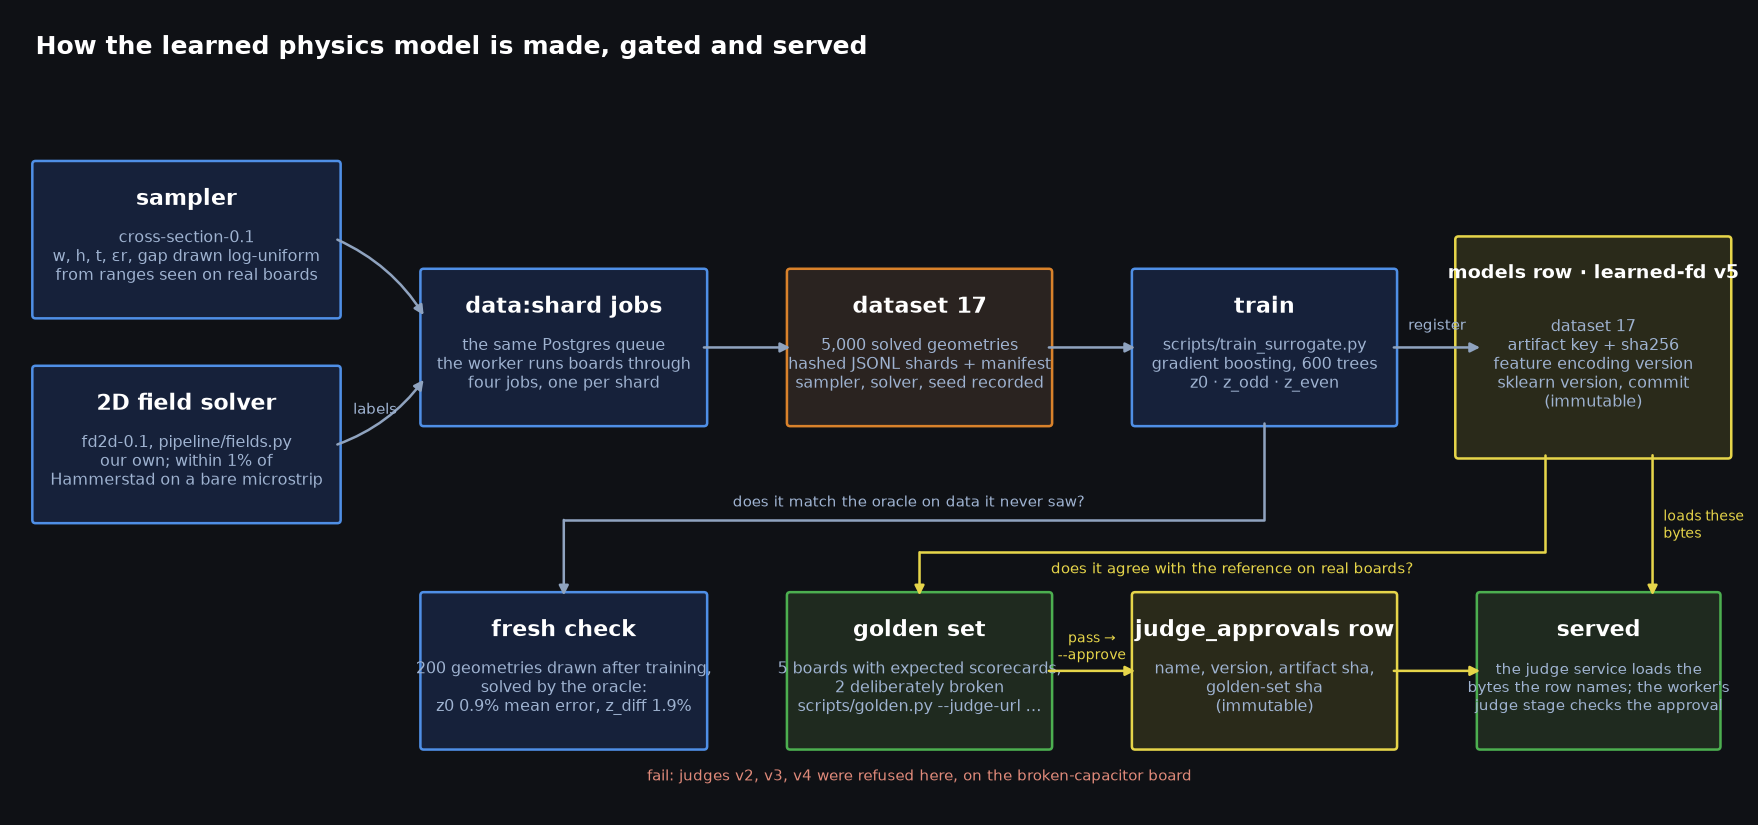
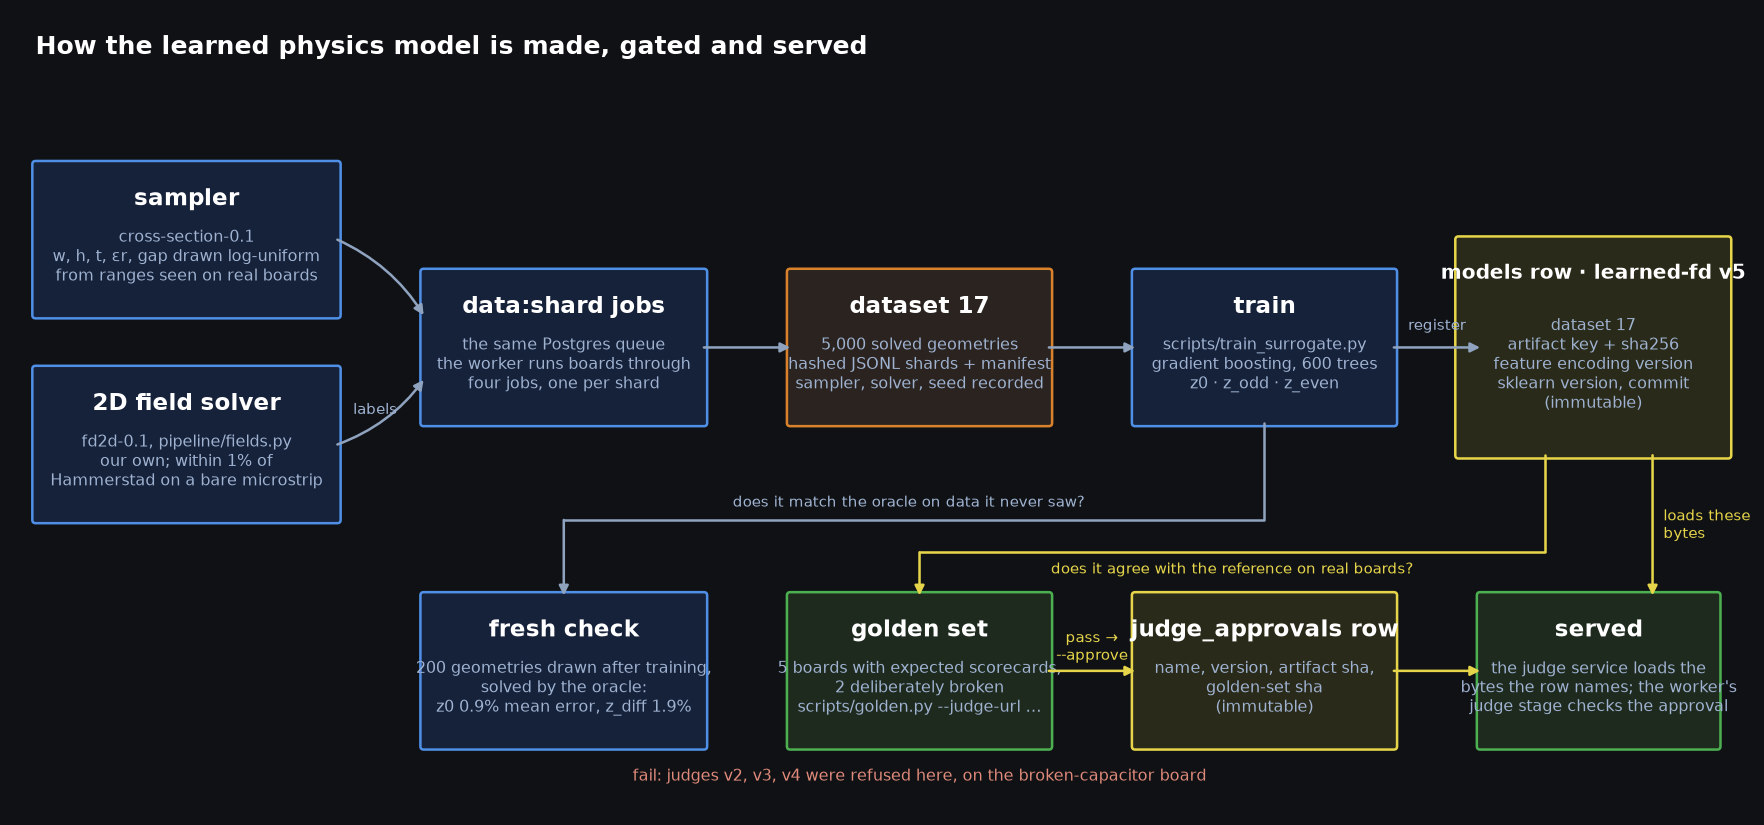
README: mermaid as before, detailed diagram portrait with cylinders
Claude-Session: https://claude.ai/code/session_01QX7QVxu7HEts5nS26wqjjR

diff --git a/docs/media/diagrams.py b/docs/media/diagrams.py
@@ -9,10 +9,10 @@ import matplotlib
 
 matplotlib.use("Agg")
 import matplotlib.pyplot as plt  # noqa: E402
-from matplotlib.patches import FancyBboxPatch  # noqa: E402
+from matplotlib.patches import Ellipse, FancyBboxPatch, Rectangle  # noqa: E402
 
 OUT = Path(__file__).parent
-F = 1.25  # type scale: GitHub shows the image at ~900 px wide, so text has to be big
+F = 1.3  # type scale: GitHub shows the image at ~900 px wide, so text has to be big
 BG, BLUE, BLUE_FC, ORANGE, ORANGE_FC = "#0f1115", "#4f8fe6", "#16213a", "#d9822b", "#2a2320"
 GREEN, GREEN_FC, GOLD, GOLD_FC, GREY, TXT, SUB = (
     "#4caf50", "#1f2a1f", "#e6d54a", "#2a2a1a", "#8fa3bf", "#ffffff", "#9fb3d1",
@@ -29,6 +29,18 @@ def box(ax, x1, y1, x2, y2, title, body="", fc=BLUE_FC, ec=BLUE, ts=9, bs=7.2, l
         ax.text(cx, y1 + (y2 - y1 - 3.2) / 2, body, color=SUB, ha="center", va="center", fontsize=bs * F)
     else:
         ax.text(cx, (y1 + y2) / 2, title, color=TXT, ha="center", va="center", fontsize=ts * F, weight="bold")
+
+
+def cyl(ax, x1, y1, x2, y2, title, body, fc, ec, ts=8.5, bs=6.6, e=3.2):
+    """A database cylinder: body, bottom rim, top ellipse."""
+    w, cx = x2 - x1, (x1 + x2) / 2
+    ax.add_patch(Ellipse((cx, y1 + e / 2), w, e, fc=fc, ec=ec, lw=1.3))
+    ax.add_patch(Rectangle((x1, y1 + e / 2), w, y2 - y1 - e, fc=fc, ec="none"))
+    ax.plot([x1, x1], [y1 + e / 2, y2 - e / 2], color=ec, lw=1.3)
+    ax.plot([x2, x2], [y1 + e / 2, y2 - e / 2], color=ec, lw=1.3)
+    ax.add_patch(Ellipse((cx, y2 - e / 2), w, e, fc=fc, ec=ec, lw=1.3))
+    ax.text(cx, y2 - e - 1.2, title, color=TXT, ha="center", va="top", fontsize=ts * F, weight="bold")
+    ax.text(cx, y1 + (y2 - y1 - e - 3) / 2 + 0.5, body, color=SUB, ha="center", va="center", fontsize=bs * F)
 
 
 def frame(ax, x1, y1, x2, y2, title, ec, fc="none", ts=10):
@@ -64,66 +76,66 @@ def canvas(w, h, xmax, ymax):
 
 
 def system() -> None:
-    fig, ax = canvas(16, 9.6, 160, 96)
-    ax.text(2, 94, "netlist-pipeline: one run through the system", color=TXT, fontsize=13, weight="bold", va="top")
+    # portrait: GitHub shows a README image at ~900 px wide, so a tall layout reads larger
+    fig, ax = canvas(10, 15, 100, 150)
+    ax.text(2, 148.5, "one run through the system", color=TXT, fontsize=13, weight="bold", va="top")
 
-    # row A: client, api, stores
-    box(ax, 3, 78, 24, 90, "client", "uploads a schematic\n(or a finished board),\npolls, fetches artifacts", fc="#2b2b2b", ec="#cfd8dc", bs=6.6)
-    box(ax, 30, 78, 66, 90, "api  (FastAPI)", "POST /designs → store, insert run + first job\nGET /runs/{id} → the rows\nGET …/artifacts/{name} → presigned redirect", bs=5.8)
-    box(ax, 76, 78, 106, 90, "Postgres", "designs · runs · jobs · stages\ncandidates · verifications · artifacts\nmodels · judge_approvals", fc=ORANGE_FC, ec=ORANGE, bs=6.2)
-    box(ax, 118, 78, 154, 90, "S3  (MinIO locally)", "designs/<sha>/…\nruns/<id>/…\nmodels/judge/<version>-<sha>.joblib", fc=ORANGE_FC, ec=ORANGE, bs=6.2)
-    arrow(ax, (24, 84), (30, 84))
-    arrow(ax, (66, 84), (76, 84))
-    label(ax, 71, 86.2, "run + first job", size=5.4)
-    arrow(ax, (47, 78), (136, 78), rad=0.22)
-    label(ax, 91, 71.5, "upload bytes", size=6.5)
+    box(ax, 2, 130, 24, 142, "client", "uploads a schematic\n(or a finished board),\npolls, fetches artifacts", fc="#2b2b2b", ec="#cfd8dc", ts=8.5, bs=6.6, pad=1.2)
+    box(ax, 30, 130, 72, 142, "api  (FastAPI)", "POST /designs → store, insert run + first job\nGET /runs/{id} → the rows\nGET …/artifacts/{name} → presigned redirect", ts=8.5, bs=6.4)
+    arrow(ax, (24, 136), (30, 136))
+    cyl(ax, 2, 106, 46, 124, "Postgres", "designs · runs · jobs · stages\ncandidates · verifications · artifacts\nmodels · judge_approvals", fc=ORANGE_FC, ec=ORANGE)
+    cyl(ax, 52, 106, 96, 124, "S3  (MinIO locally)", "designs/<sha>/…\nruns/<id>/…\nmodels/judge/<version>-<sha>.joblib", fc=ORANGE_FC, ec=ORANGE)
+    arrow(ax, (40, 130), (30, 124), rad=0.1)
+    label(ax, 27.5, 126.5, "run + first job", size=5.8, ha="right")
+    arrow(ax, (62, 130), (72, 124), rad=-0.1)
+    label(ax, 74, 126.5, "upload bytes", size=5.8, ha="left")
 
-    # row B: worker
-    frame(ax, 3, 38, 157, 66, "worker  — one job at a time, each in a child interpreter", BLUE, fc="#111827", ts=9)
-    box(ax, 6, 44, 30, 58, "job loop", "claim a queued job\n(SKIP LOCKED)\nrun its stage\nenqueue the next stage")
-    frame(ax, 33, 41, 154, 61, "the eight stages: one jobs row and one stages row each, chained by sha256", "#2f4f6f", fc="#0f1a2e", ts=7.5)
+    frame(ax, 2, 50, 96, 100, "worker  — one job at a time, each in a child interpreter", BLUE, fc="#111827", ts=9)
+    box(ax, 5, 74, 30, 92, "job loop", "claim a queued job\n(SKIP LOCKED)\nrun its stage in a\nchild interpreter\nenqueue the next stage", ts=8.5, bs=6.4)
+    frame(ax, 34, 53, 94, 96, "the eight stages: one jobs row and\none stages row each, chained by sha256", "#2f4f6f", fc="#0f1a2e", ts=7.6)
     stages = [
         ("1 extract_netlist", "kicad-cli"), ("2 constraints", "classes + patterns"),
-        ("3  build_board", "pcbnew"), ("4  place", "simulated annealing"), ("5  route", "Freerouting"),
-        ("6  judge", "the model slot"), ("7  verify", "DRC + netlist parity"), ("8 export", "gerbers, drill, png"),
+        ("3 build_board", "pcbnew"), ("4 place", "annealing"), ("5 route", "Freerouting"),
+        ("6 judge", "the model slot"), ("7 verify", "DRC + netlist parity"), ("8 export", "gerbers, drill, png"),
     ]  # fmt: skip
-    xs = []
+    pos = []
     for i, (t, b) in enumerate(stages):
-        x1 = 35 + i * 14.75
-        xs.append((x1, x1 + 13.25))
+        row, col = divmod(i, 4)
+        x1 = 36.5 + col * 14.5
+        y1 = 74 - row * 17
+        pos.append((x1, y1, x1 + 13, y1 + 11))
         slot = i == 5
-        box(ax, x1, 45, x1 + 13.25, 55, t, b, fc=GREEN_FC if slot else "#1b2d4f", ec=GREEN if slot else BLUE, ts=7, bs=5.8)
-        if i:
-            arrow(ax, (xs[i - 1][1], 50), (x1, 50))
-    arrow(ax, (18, 58), (18, 78))
-    label(ax, 19, 68, "claim", size=6.5, ha="left")
-    arrow(ax, (95, 61), (95, 78))
-    label(ax, 97, 69.5, "stage rows: tool, version,\ninput_hash, output_hash", size=6.3, ha="left")
-    arrow(ax, (126, 61), (126, 78))
-    label(ax, 128, 69.5, "netlist, boards,\nreport, gerbers", size=6.3, ha="left")
+        box(ax, x1, y1, x1 + 13, y1 + 11, t, b, fc=GREEN_FC if slot else "#1b2d4f", ec=GREEN if slot else BLUE, ts=6.3, bs=5.1)
+        if i in (1, 2, 3, 5, 6, 7):
+            arrow(ax, (pos[i - 1][2], y1 + 5.5), (x1, y1 + 5.5))
+    poly(ax, [((pos[3][0] + pos[3][2]) / 2, pos[3][1]), ((pos[3][0] + pos[3][2]) / 2, 71.5), ((pos[4][0] + pos[4][2]) / 2, 71.5), ((pos[4][0] + pos[4][2]) / 2, pos[4][3])])
+    arrow(ax, (17, 92), (17, 106))
+    label(ax, 18, 103, "claim", size=5.8, ha="left")
+    arrow(ax, (40, 96), (40, 106))
+    label(ax, 41, 102, "stage rows: tool, version,\ninput_hash, output_hash", size=5.4, ha="left")
+    arrow(ax, (74, 96), (74, 106))
+    label(ax, 75, 102, "netlist, boards,\nreport, gerbers", size=5.4, ha="left")
 
-    # row C: registry + judge service
-    box(ax, 4, 8, 34, 30, "registry  (rows in Postgres)", "models: name, version, dataset,\nartifact key + sha256, feature\nencoding, sklearn, commit\n\njudge_approvals: name, version,\nartifact sha, golden-set sha\n\nboth immutable", fc=GOLD_FC, ec=GOLD, bs=6, ts=8)
-    frame(ax, 40, 3, 157, 33, "judge service  (JUDGE_URL, one versioned judge per process)", GREEN, fc="#0f1a14", ts=9)
-    box(ax, 44, 10, 78, 26, "rule judge", "IPC-2141 impedance\nIPC-2221 current capacity\ndecoupling · crosstalk · vias\nscore = −Σ weighted excess", bs=6)
-    frame(ax, 83, 6, 154, 29, "physics provider  (where the impedance numbers come from)", "#2e6b3a", fc="#0d1a12", ts=7.5)
-    box(ax, 86, 10, 106, 23, "formula", "IPC-2141 closed form\nmicroseconds", ts=8, bs=6)
-    box(ax, 109, 10, 129, 23, "oracle", "our 2D field solver\n0.36 s per geometry", ts=8, bs=6)
-    box(ax, 132, 10, 152, 23, "learned-fd v5", "trained on the oracle\nµs, 0.9% error", fc=GOLD_FC, ec=GOLD, ts=8, bs=6)
-    arrow(ax, (78, 18), (86, 18))
-    label(ax, 82, 24.2, "z0 of every\nhigh-speed net", size=5.4)
+    cyl(ax, 2, 4, 30, 42, "registry\n(rows in Postgres)", "models: name, version,\ndataset, artifact key + sha,\nfeature encoding,\nsklearn, commit\n\njudge_approvals: name,\nversion, artifact sha,\ngolden-set sha\n\nboth immutable", fc=GOLD_FC, ec=GOLD, ts=8, bs=6.2)
+    frame(ax, 34, 2, 96, 44, "judge service  (JUDGE_URL,\none versioned judge per process)", GREEN, fc="#0f1a14", ts=8.5)
+    box(ax, 37, 21, 66, 36, "rule judge", "IPC-2141 impedance\nIPC-2221 current capacity\ndecoupling · crosstalk · vias\nscore = −Σ weighted excess", ts=8, bs=5.6)
+    frame(ax, 37, 4, 94, 19, "physics provider  (where the impedance numbers come from)", "#2e6b3a", fc="#0d1a12", ts=6)
+    box(ax, 39, 5.5, 56, 14.5, "formula", "IPC-2141 closed form\nmicroseconds", ts=7, bs=5.6)
+    box(ax, 58, 5.5, 75, 14.5, "oracle", "our 2D field solver\n0.36 s per geometry", ts=7, bs=5.6)
+    box(ax, 77, 5.5, 94, 14.5, "learned-fd v5", "trained on the oracle\nµs, 0.9% error", fc=GOLD_FC, ec=GOLD, ts=7, bs=5.6)
+    arrow(ax, (51.5, 21), (51.5, 19))
+    label(ax, 53, 20.5, "z0 of every high-speed net", size=5.4, ha="left")
 
-    # the slot, the gate, the bytes
-    sx = (xs[5][0] + xs[5][1]) / 2
-    arrow(ax, (sx, 45), (sx, 33), color=GREEN, lw=1.6)
-    label(ax, sx + 1.2, 39, "POST /v1/score (board, netlist, constraints)\n← score, violations, judge {name, version, sha}", color="#8fbf8f", size=5.8, ha="left")
-    poly(ax, [(xs[5][0] + 1, 45), (xs[5][0] + 1, 36), (19, 36), (19, 30)], color=GOLD)
-    label(ax, 20.5, 33.3, "gate: (name, version, sha) must be an approval row", color=GOLD, size=5.6, ha="left")
-    poly(ax, [(34, 14), (38, 14), (38, 1.5), (142, 1.5), (142, 10)], color=GOLD)
-    label(ax, 92, 0.2, "the models row names the artifact key; the service refuses bytes whose sha256 differs", color=GOLD, size=5.8, va="bottom")
-    poly(ax, [(154, 81), (158.5, 81), (158.5, 16.5), (152, 16.5)], color=ORANGE)
-    label(ax, 159.3, 47, "artifact bytes", color=ORANGE, size=6.3, rot=90)
-    fig.savefig(OUT / "system.png", dpi=140, facecolor=BG, bbox_inches="tight")
+    sx = (pos[5][0] + pos[5][2]) / 2
+    arrow(ax, (sx, pos[5][1]), (sx, 44), color=GREEN, lw=1.6)
+    label(ax, sx + 1.5, 49.3, "POST /v1/score (board, netlist, constraints)\n← score, violations, judge {name, version, sha}", color="#8fbf8f", size=5, ha="left")
+    poly(ax, [(pos[5][0] + 1.5, pos[5][1]), (pos[5][0] + 1.5, 47), (16, 47), (16, 42)], color=GOLD)
+    label(ax, 3, 44.5, "gate: (name, version, sha)\nmust be an approval row", color=GOLD, size=5.4, ha="left")
+    poly(ax, [(16, 4), (16, 0.8), (85.5, 0.8), (85.5, 5.5)], color=GOLD)
+    label(ax, 50, -0.4, "the models row names the artifact key; the service refuses bytes whose sha256 differs", color=GOLD, size=5.4, va="top")
+    poly(ax, [(96, 114), (98.8, 114), (98.8, 10), (94, 10)], color=ORANGE)
+    label(ax, 99.6, 60, "artifact bytes", color=ORANGE, size=5.6, rot=90)
+    fig.savefig(OUT / "system.png", dpi=150, facecolor=BG, bbox_inches="tight")
 
 
 def model() -> None:

diff --git a/README.md b/README.md
@@ -15,7 +15,6 @@ flowchart LR
     api --> s3[(S3<br/>uploads, boards,<br/>reports, gerbers)]
     worker[worker<br/>kicad-cli, pcbnew,<br/>Freerouting] -->|claim job<br/>SKIP LOCKED| pg
     worker --> s3
-    worker -->|POST /v1/score| judge[judge service<br/>rules + physics model]
     client -->|GET /runs/id| api
 ```
 
@@ -25,7 +24,7 @@ eight stages one job at a time, and the judge stage calls a separate judge servi
 That service is the model slot.
 
 <details>
-<summary><b>Detailed architecture</b>: the stages inside the worker, the judge service and its physics providers, the registry rows and the gate (click to expand; click the image for full size)</summary>
+<summary>Detailed architecture</summary>
 
 ![One run through the system](docs/media/system.png)
 
